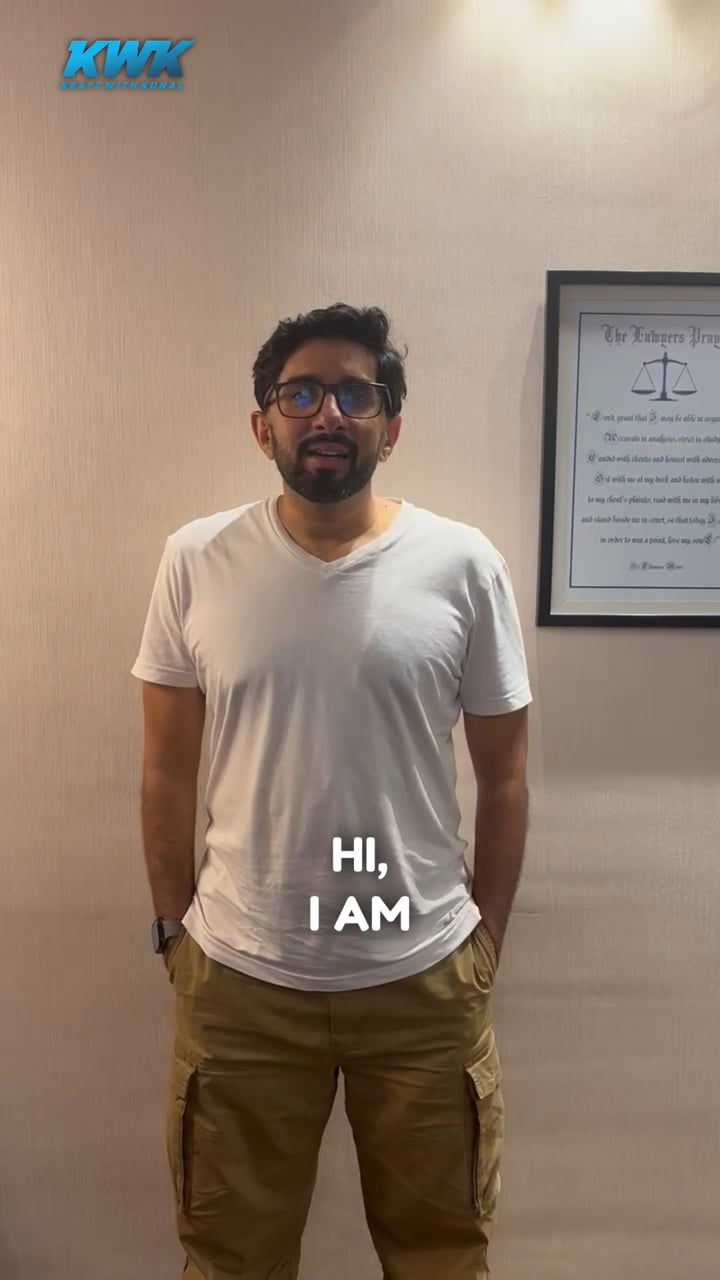
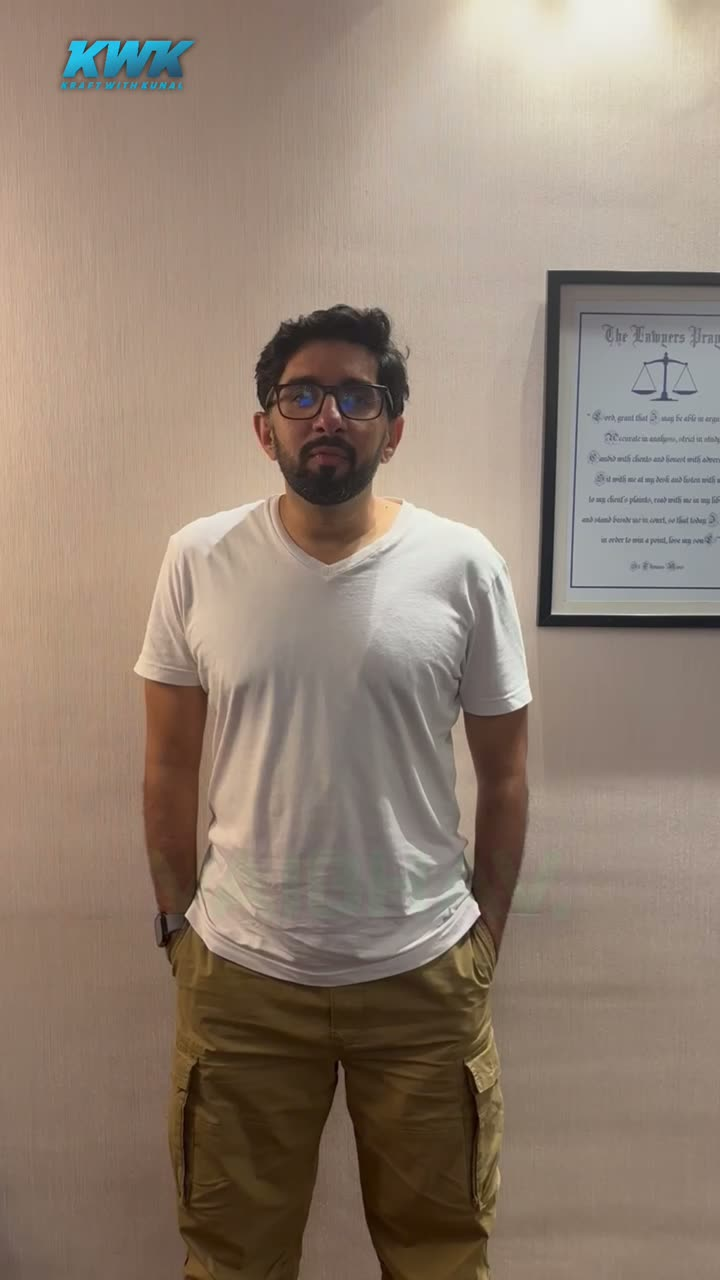
Point Vaibhav and Ashish testimonials at the CDN MP4s
Slot 2 (Vaibhav) -> Captions_AFF4F3.MP4 and slot 3 (Ashish) ->
Video_Testiomonial_2.mp4, both on the DigitalOcean bucket. Slot 1
(Ashish R) keeps its Vimeo embed, untouched. Each line now carries the
client's name so the array index -> testimonialNames mapping is not
something the next person has to work out.

Poster frames regenerated, which the swap forced. Proof.tsx resolves a
tile's still as posters[i] || fetched[i] || fallbacks[i], and `fetched`
is Vimeo oEmbed, which returns null for a direct MP4. Left alone, slots
2 and 3 would have fallen through to the committed frames of the OLD
Vimeo clips -- the previous client's face over the new video, silently,
with nothing failing. clip-2.jpg and clip-3.jpg are now real frames
pulled from the new files (ffmpeg, 1.0s, 720x1280 to match clip-1).

The comment above testimonialFallbacks claimed these were oEmbed
downloads kept only as a last resort. For two of three that is no
longer true -- they ARE the poster now -- so it documents both
regeneration paths instead.

diff --git a/src/lib/site.ts b/src/lib/site.ts
@@ -76,9 +76,9 @@ export const site = {
 
   /** Three client video testimonials. Vimeo player URLs or direct MP4 both work. */
   testimonialVideos: [
-    process.env.NEXT_PUBLIC_TESTIMONIAL_VIDEO_1 ?? "https://player.vimeo.com/video/1213532473",
-    process.env.NEXT_PUBLIC_TESTIMONIAL_VIDEO_2 ?? "https://player.vimeo.com/video/1213532711",
-    process.env.NEXT_PUBLIC_TESTIMONIAL_VIDEO_3 ?? "https://player.vimeo.com/video/1213532704",
+    process.env.NEXT_PUBLIC_TESTIMONIAL_VIDEO_1 ?? "https://player.vimeo.com/video/1213532473", // Ashish R — unchanged
+    process.env.NEXT_PUBLIC_TESTIMONIAL_VIDEO_2 ?? "https://tgox-production-bucket.nyc3.cdn.digitaloceanspaces.com/client_funnel_videos/Kunal/Captions_AFF4F3.MP4", // Vaibhav
+    process.env.NEXT_PUBLIC_TESTIMONIAL_VIDEO_3 ?? "https://tgox-production-bucket.nyc3.cdn.digitaloceanspaces.com/client_funnel_videos/Kunal/Video_Testiomonial_2.mp4", // Ashish
   ],
   /** Optional still for each clip. Empty => derived (MP4) or fetched (Vimeo). */
   testimonialPosters: [
@@ -88,11 +88,19 @@ export const site = {
   ],
 
   /**
-   * Committed copies of the same opening frames, in clip order.
-   * Last line of defence: if Vimeo's oEmbed is unreachable at build time
-   * (blocked egress, outage) the tiles and the trust-strip avatars still show
-   * a real face instead of an empty ring. Regenerate by re-downloading the
-   * oEmbed thumbnail at -d_720x1280 if a clip is ever swapped.
+   * Committed opening frames, in clip order. 720x1280 (9:16) to match the tile.
+   *
+   * These are what the tiles actually render — the poster chain in Proof.tsx is
+   * `testimonialPosters[i] || fetched[i] || testimonialFallbacks[i]`, and for a
+   * DIRECT MP4 the middle term is always null (oEmbed only answers for Vimeo).
+   * So for clips 2 and 3 this is not a fallback at all, it is the poster. Swap
+   * a clip without regenerating its frame here and the tile shows the previous
+   * client's face over the new video — silently, with nothing failing.
+   *
+   * REGENERATE WHEN A CLIP CHANGES:
+   *   Vimeo → re-download the oEmbed thumbnail at -d_720x1280
+   *   MP4   → ffmpeg -ss 1.0 -i <url> -frames:v 1 -vf scale=720:1280 -q:v 4 clip-N.jpg
+   *           (ffmpeg range-requests the remote file; no need to download it)
    */
   testimonialFallbacks: [
     "/testimonials/clip-1.jpg",
